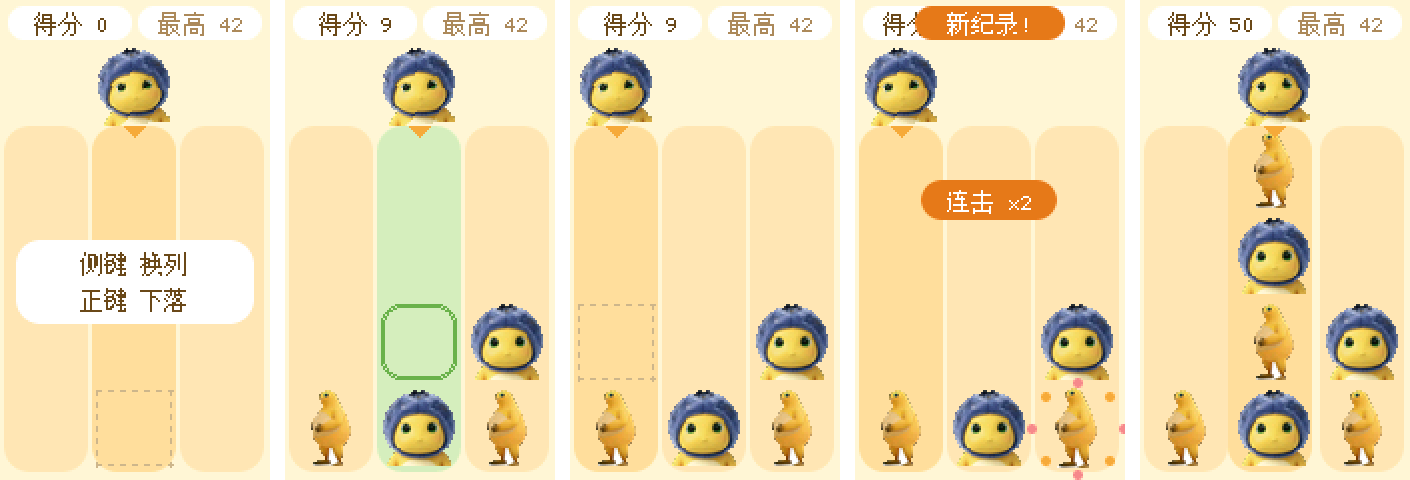
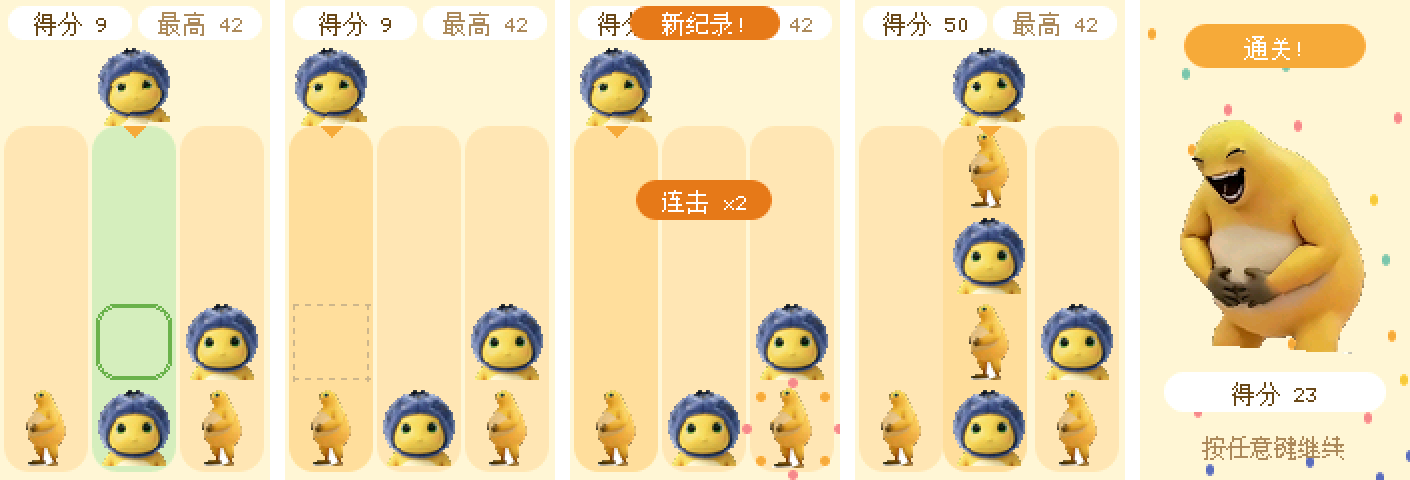
Shake to clear the board; remove the first-launch hint
Three quick jolts within 0.9 s jump straight to a "通关!" celebration with
the looping laugh; any button then clears the board and keeps the score.
The on-board control hint is gone.

Claude-Session: https://claude.ai/code/session_012Md67DHjtNtakNjU8c64Pv

diff --git a/pin-hao-wa/src/main.cpp b/pin-hao-wa/src/main.cpp
@@ -4,6 +4,8 @@
 //   Front button (BtnA) click : drop the baby
 //   Front button hold 3 s     : start over
 //
+// Shake the stick (three quick jolts) to clear the board straight away: "通关!".
+//
 // Small helps: the lane turns green and the landing spot gets a green frame when the
 // next baby would merge there; a full column shakes instead of ending the game (only a
 // completely full board ends it); chains show "连击"; a new best shows "新纪录!";
@@ -33,6 +35,9 @@ static constexpr uint32_t LAUGH_REPEATS = 12;    // loops queued at once (about 
 static constexpr int      LEVEL2_CHANCE = 15;    // % chance the next baby is already level 2
 static constexpr uint32_t DIM_AFTER_MS  = 30000; // dim the screen when nobody plays
 static constexpr uint8_t  BRIGHT        = 150, DIM = 20;
+static constexpr float    SHAKE_G       = 1.9f;  // one jolt of a shake
+static constexpr int      SHAKE_COUNT   = 3;     // jolts needed ...
+static constexpr uint32_t SHAKE_WINDOW  = 900;   // ... within this many ms
 
 static M5Canvas canvas(&M5.Display);
 static Preferences prefs;
@@ -78,6 +83,44 @@ static void addScore(int n, int col, int row) {
   g.gain = n; g.gainCol = col; g.gainRow = row; g.gainUntil = millis() + 700;
 }
 
+static void startLaugh() {
+  // repeat inside the speaker driver so the loop has no gap; stopped when the player continues
+  M5.Speaker.playRaw(laugh_pcm, sizeof(laugh_pcm) / sizeof(laugh_pcm[0]), LAUGH_RATE, false, LAUGH_REPEATS, LAUGH_CH, true);
+}
+
+// shake to win: celebrate now, the whole board clears afterwards
+static void shakeClear() {
+  g.cleared = true;
+  g.toastUntil = 0;
+  startPhase(game::CELEBRATE, CELEBRATE_MAX);
+  sndPop(3);
+  startLaugh();
+  Serial.println("[shake] 通关");
+}
+
+// count quick jolts; returns true when the stick was shaken
+static bool shaken(uint32_t now) {
+  static uint32_t jolts[SHAKE_COUNT] = {0};
+  static int idx = 0;
+  static bool above = false;
+  if (!M5.Imu.update()) return false;
+  auto d = M5.Imu.getImuData();
+  float a = sqrtf(d.accel.x * d.accel.x + d.accel.y * d.accel.y + d.accel.z * d.accel.z);
+  bool hit = a > SHAKE_G;
+  if (hit && !above) {                       // rising edge = one jolt
+    jolts[idx] = now;
+    idx = (idx + 1) % SHAKE_COUNT;
+    uint32_t oldest = jolts[idx];            // the jolt SHAKE_COUNT-1 jolts ago
+    if (oldest && now - oldest < SHAKE_WINDOW) {
+      for (auto& j : jolts) j = 0;
+      above = hit;
+      return true;
+    }
+  }
+  above = hit;
+  return false;
+}
+
 static void restart() {
   game::reset(g, prefs.getUInt("best", 0));
   newNext();
@@ -101,7 +144,6 @@ static void drop() {
     }
     return;
   }
-  g.tutorial = false;
   g.combo = 0;
   g.dropCol = c; g.dropRow = h; g.dropTier = g.next;
   startPhase(game::DROP, DROP_MS_ROW * (game::ROWS - h) + 60);
@@ -116,8 +158,8 @@ static void checkChain() {
     celebrateCol = c; celebrateRow = r;
     addScore(10, c, r);
     startPhase(game::CELEBRATE, CELEBRATE_MAX);
-    // repeat inside the speaker driver so the loop has no gap; stopped when the player continues
-    M5.Speaker.playRaw(laugh_pcm, sizeof(laugh_pcm) / sizeof(laugh_pcm[0]), LAUGH_RATE, false, LAUGH_REPEATS, LAUGH_CH, true);
+    g.cleared = false;
+    startLaugh();
     Serial.println("[level 3] laugh");
     return;
   }
@@ -162,7 +204,7 @@ static void land() {
 void setup() {
   auto cfg = M5.config();
   cfg.serial_baudrate = 115200;
-  cfg.internal_imu = false;
+  cfg.internal_imu = true;
   cfg.internal_spk = true;
   cfg.internal_mic = false;
   M5.begin(cfg);
@@ -210,8 +252,12 @@ void loop() {
   if (M5.BtnA.pressedFor(3000) && holdArmed) { holdArmed = false; restart(); }
   if (M5.BtnA.wasReleased()) holdArmed = true;
 
+  bool shake = shaken(now);
+  if (shake) lastInput = now;
+
   switch (g.phase) {
     case game::IDLE:
+      if (shake) { shakeClear(); break; }
       if (M5.BtnB.wasClicked()) { g.cursor = (g.cursor + 1) % game::COLS; sndMove(); }
       if (M5.BtnA.wasClicked()) drop();
       break;
@@ -226,7 +272,12 @@ void loop() {
       bool done = (pressed && now - g.phaseStart > 800) || now - g.phaseStart > g.phaseLen;
       if (done) {
         M5.Speaker.stop(LAUGH_CH);
-        g.grid[celebrateCol][celebrateRow] = 0;      // the level-3 baby leaves the board
+        if (g.cleared) {                              // shake win: fresh board, score kept
+          for (auto& col : g.grid) for (auto& v : col) v = 0;
+          g.cleared = false;
+        } else {
+          g.grid[celebrateCol][celebrateRow] = 0;     // the level-3 baby leaves the board
+        }
         startPhase(game::IDLE, 0);
       } else if (!M5.Speaker.isPlaying(LAUGH_CH)) {  // loop the laugh
         M5.Speaker.playRaw(laugh_pcm, sizeof(laugh_pcm) / sizeof(laugh_pcm[0]), LAUGH_RATE, false, LAUGH_REPEATS, LAUGH_CH, false);

diff --git a/pin-hao-wa/src/scene.hpp b/pin-hao-wa/src/scene.hpp
@@ -76,11 +76,12 @@ inline void draw(LovyanGFX* d, const game::State& g, uint32_t now) {
       static const uint32_t cols[] = {0xF2A93B, 0x5A6FB8, 0xF08A8A, 0x7CC6A8, 0xF7CB3E};
       d->fillSmoothRoundRect((int)x, (int)y, 4, 6, 2, C(cols[i % 5]));
     }
-    pill(d, 22, 12, 91, 22, ACCENT, 0xFFFFFF, "拼好蛙!");
+    pill(d, 22, 12, 91, 22, ACCENT, 0xFFFFFF, g.cleared ? "通关!" : "拼好蛙!");
     float bounce = 1.0f + 0.06f * sinf(t * 9.0f);
     float zin = t < 0.35f ? easeOutBack(t / 0.35f) : 1.0f;
     gBig->pushRotateZoom(d, W / 2.0f, 118, sinf(t * 7.0f) * 4.0f, zin * bounce, zin * bounce, (uint16_t)WA_KEY);
-    snprintf(buf, sizeof(buf), "+10   得分 %lu", (unsigned long)g.score);
+    if (g.cleared) snprintf(buf, sizeof(buf), "得分 %lu", (unsigned long)g.score);
+    else snprintf(buf, sizeof(buf), "+10   得分 %lu", (unsigned long)g.score);
     pill(d, 12, 186, 111, 20, CARD, INK, buf);
     d->setTextColor(C(INK_SOFT));
     d->setTextDatum(textdatum_t::middle_center);
@@ -176,15 +177,6 @@ inline void draw(LovyanGFX* d, const game::State& g, uint32_t now) {
   if (now < g.comboUntil && g.combo >= 2) {
     snprintf(buf, sizeof(buf), "连击 x%d", g.combo);
     pill(d, W / 2 - 34, 90, 68, 20, 0xE07B1F, 0xFFFFFF, buf);
-  }
-
-  // first-time hint
-  if (g.tutorial && g.phase == game::IDLE) {
-    d->fillSmoothRoundRect(8, 120, W - 16, 42, 12, C(CARD));
-    d->setTextColor(C(INK));
-    d->setTextDatum(textdatum_t::middle_center);
-    d->drawString("侧键 换列", W / 2, 132);
-    d->drawString("正键 下落", W / 2, 150);
   }
 
   // new best score

diff --git a/pin-hao-wa/src/game.hpp b/pin-hao-wa/src/game.hpp
@@ -35,13 +35,13 @@ struct State {
   int gainCol, gainRow;
   uint32_t gainUntil;
 
-  bool tutorial;              // show the controls until the first drop
   int fullCol;                // column that refused a drop (it shakes)
   uint32_t fullUntil;
   int combo;                  // merges in a row from one drop
   uint32_t comboUntil;
   bool recordShown;           // "新纪录!" shown once per game
   uint32_t recordUntil;
+  bool cleared;               // celebration came from a shake: "通关!", the whole board clears after it
 };
 
 inline bool boardFull(const State& s) {
@@ -67,13 +67,13 @@ inline void reset(State& s, uint32_t best) {
   s.toastStart = s.toastUntil = 0;
   s.gain = 0;
   s.gainUntil = 0;
-  s.tutorial = true;
   s.fullCol = -1;
   s.fullUntil = 0;
   s.combo = 0;
   s.comboUntil = 0;
   s.recordShown = false;
   s.recordUntil = 0;
+  s.cleared = false;
 }
 
 }  // namespace game

diff --git a/pin-hao-wa/README.md b/pin-hao-wa/README.md
@@ -13,6 +13,7 @@
 | 侧面键 | 换到下一列（三列循环） |
 | 正面键 | 让奶娃掉下去 |
 | 按住正面键 3 秒 | 重新开始 |
+| 快速摇三下板子 | 直接通关：全屏大笑，按任意键后棋盘清空，分数保留 |
 
 - 第 1 级 + 第 1 级 → 第 2 级（+1 分）
 - 第 2 级 + 第 2 级 → 第 3 级（+3 分），全屏大笑并循环笑声（+10 分），按任意键后它离开棋盘
@@ -24,9 +25,9 @@
 
 ## 让人一上手就会玩的小细节
 
-![新手提示、合成提示、连击和满列](docs/ux-helpers.png)
+![合成提示、连击、满列和摇一摇通关](docs/ux-helpers.png)
 
-- **新手提示**：开机棋盘中间显示“侧键 换列 / 正键 下落”，第一次落下后消失。
+- **摇一摇通关**：0.9 秒内快速摇三下，直接进入“通关!”大笑画面，笑声循环；按任意键继续，棋盘清空、分数保留。
 - **合成提示**：当前列落下去能合成时，整列变浅绿，落点出现绿色框；不能合成时落点是灰色虚线框。落下前就知道结果。
 - **满列不判输**：满的那一列会抖一下并响两声低音，不会因为一次误按就结束。
 - **连击**：一次落下引发连锁合成时，弹出“连击 x2”。
@@ -74,6 +75,7 @@ python3 tools/build_assets.py
 | `DROP_MS_ROW` | 75 | 每下落一格的时间（毫秒） |
 | `TOAST_MS` | 1900 | 熊大“轻松绷住”显示多久（比 1.5 秒的原声略长） |
 | `DIM_AFTER_MS` | 30000 | 多久没人按键就调暗屏幕 |
+| `SHAKE_G` / `SHAKE_COUNT` / `SHAKE_WINDOW` | 1.9 g / 3 次 / 900 毫秒 | 摇一摇的灵敏度：每下多用力、摇几下、在多长时间内 |
 | `LEVEL2_CHANCE` | 15 | 下一个直接是第 2 级的概率（%） |
 | `CELEBRATE_MAX` | 20000 | 没人按键时，大笑最长持续多久（毫秒） |
 
